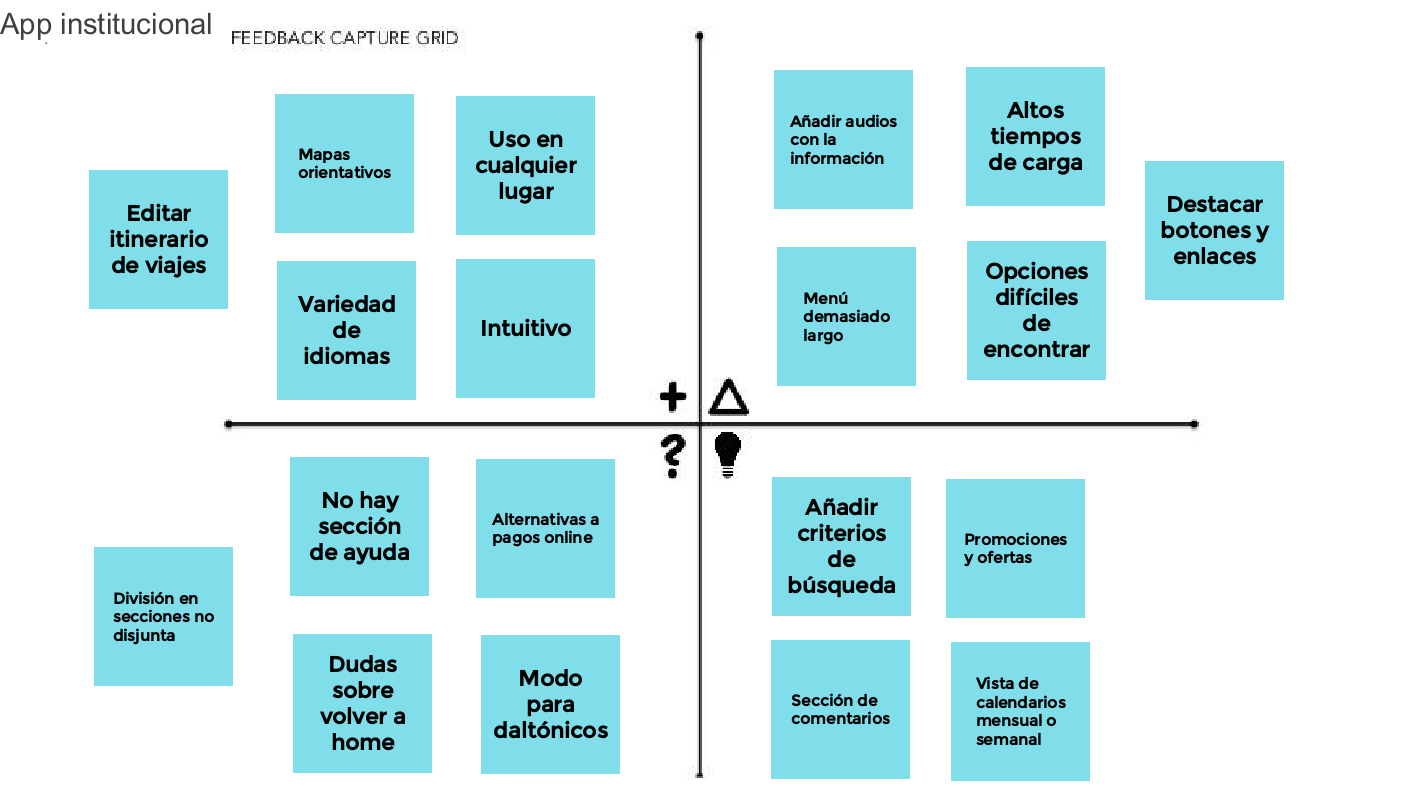
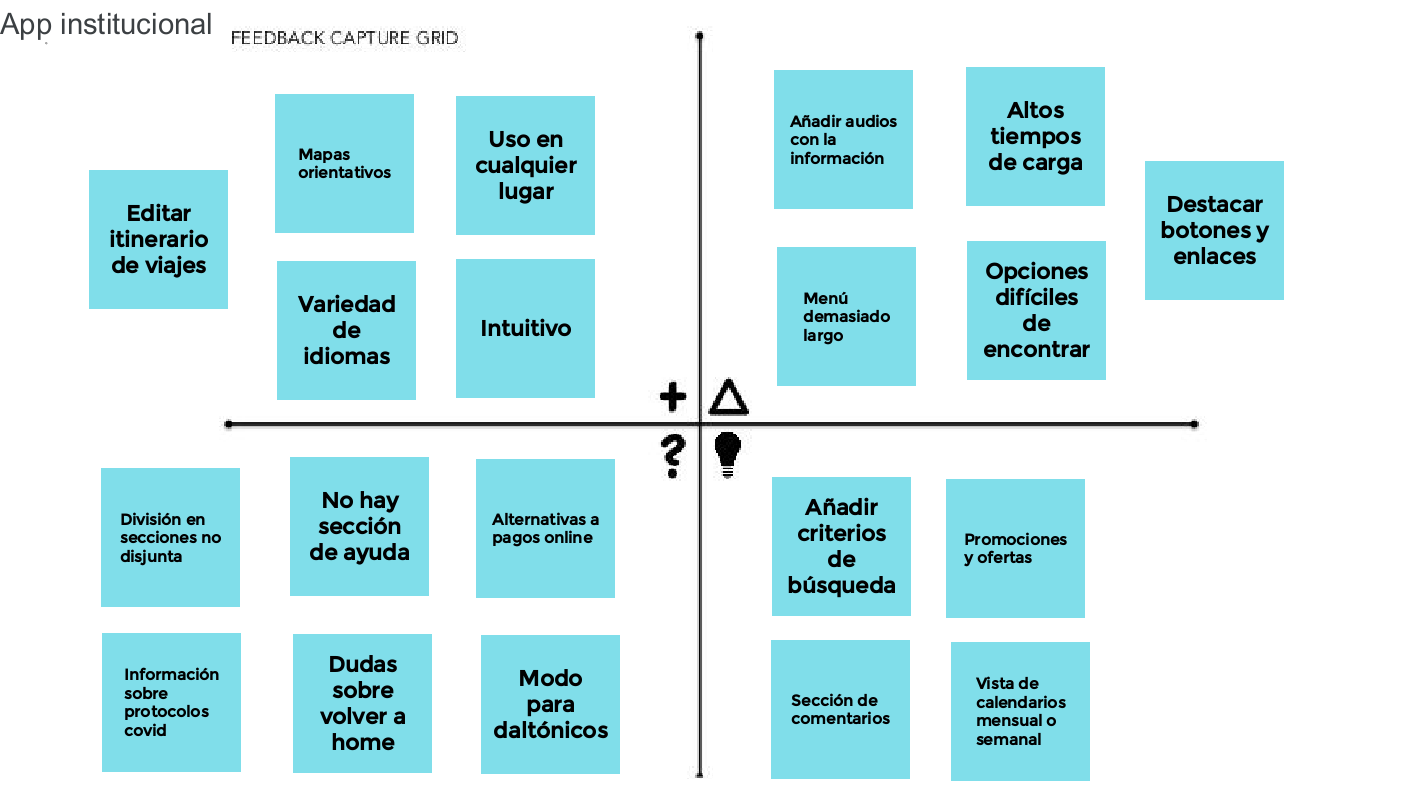
corrijo feedback y añado scope canvas

Changed region(s): [[0.0619, 0.5625, 0.1857, 0.9688]]

diff --git a/P2/README.md b/P2/README.md
@@ -1,13 +1,19 @@
 ## DIU - Practica2, entregables
 
 ### Ideación 
-* Malla receptora de información 
+* Malla receptora de información  <-
 * Mapa de empatía
 * Point of View 
 
+![](./img/feedback_capture_grid.png)
 
 ### PROPUESTA DE VALOR
+
 * ScopeCanvas
+
+La aplicación móvil a desarrollar es una plataforma para consultar, organizar y planificar viajes. La plataforma pondrá a disposición del usuario información sobre actividades culturales, hoteles, lugares emblemáticos y monumentos, de forma que pueda realizarse fácilmente un itinerario completo del viaje de una manera sencilla e intuitiva.
+
+![](./img/scope_canvas.png)
 
 
 ### TASK ANALYSIS
